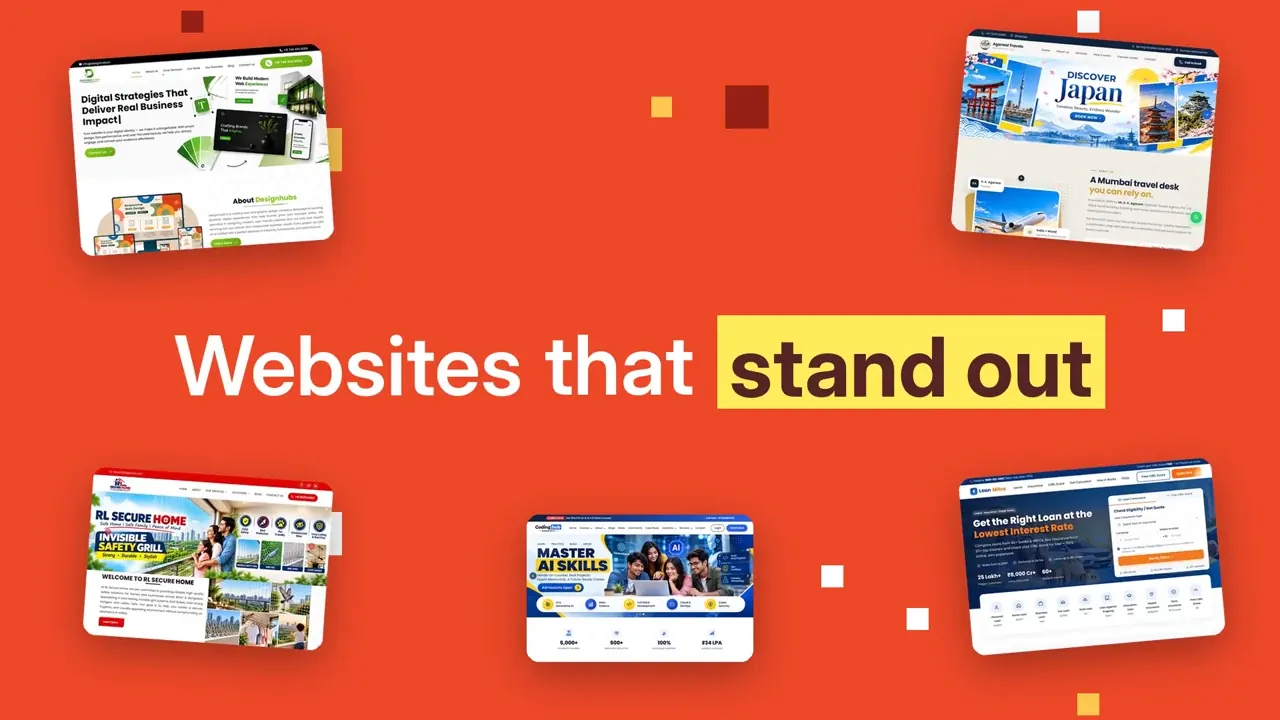
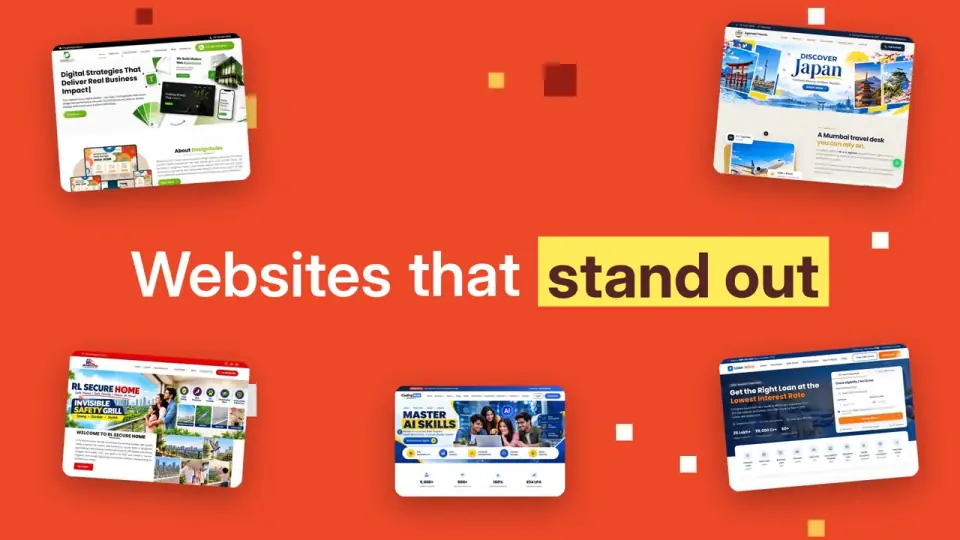
perf: cut rendering work, right-size images, longer static caching
- Replace blurred, endlessly drifting blobs with static radial-gradient
  glows; drop backdrop-filter on pills and hero tags; footer blob too
- Hero shimmer and hero tag floats run a few cycles instead of forever
- Pause decorative animations in off-screen sections (offscreen-pause.ts)
- content-visibility: auto for below-the-fold homepage sections and the
  footer, so start-up skips their style, layout and paint
- Showreel poster 1280px/87KB -> 960px/33KB; tools screenshot gets a 480w
  file and an accurate sizes hint
- nginx: fixed-name images, icons and videos cached 30 days with
  stale-while-revalidate, now including /img/

Local Lighthouse (mobile, home): main-thread 2.8s -> 1.8s, TBT 60 -> 10-100ms,
speed index 1.9-2.6s -> 1.4s. Desktop 99.

Changed region(s): [[0.4375, 0.7704, 0.4688, 0.8]]

diff --git a/frontend/src/pages/free-session/career-launch.css b/frontend/src/pages/free-session/career-launch.css
@@ -1,8 +1,8 @@
 /* "Join Coding Hub" career band: centered copy, floating benefit pills, students photo over an arc. */
 .cl{position:relative;isolation:isolate;overflow:hidden;padding:clamp(3rem,7vw,5rem) 0 0;background:radial-gradient(80% 70% at 50% 100%,#cfe0ff 0%,transparent 70%),linear-gradient(160deg,#eef5ff 0%,#dbe9ff 45%,#c8e6f5 100%)}
-.cl-glow{position:absolute;z-index:-1;border-radius:50%;filter:blur(70px);opacity:.45;pointer-events:none;animation:ui-drift 18s ease-in-out infinite alternate}
-.cl-glow-a{width:36rem;aspect-ratio:1;left:-14rem;top:-12rem;background:#7fb0ff}
-.cl-glow-b{width:30rem;aspect-ratio:1;right:-10rem;top:20%;background:#7ee3f5;animation-delay:-7s}
+.cl-glow{position:absolute;z-index:-1;border-radius:50%;pointer-events:none}
+.cl-glow-a{width:44rem;aspect-ratio:1;left:-18rem;top:-16rem;background:radial-gradient(closest-side,rgba(127,176,255,.55),transparent)}
+.cl-glow-b{width:38rem;aspect-ratio:1;right:-14rem;top:14%;background:radial-gradient(closest-side,rgba(126,227,245,.5),transparent)}
 .cl-wrap{position:relative;display:grid;grid-template-columns:minmax(0,1fr) minmax(0,1.6fr) minmax(0,1fr);align-items:start;gap:clamp(1rem,3vw,2rem)}
 .cl-copy{text-align:center}
 .cl-title{margin:0;color:var(--ui-ink,#0b1220);font-size:clamp(2rem,1.3rem + 2.6vw,3.25rem)!important;font-weight:800;line-height:1.12;letter-spacing:-.035em}
@@ -15,7 +15,7 @@
 .cl-pills{display:grid;gap:1rem;margin:0;padding:clamp(.5rem,2vw,1.5rem) 0 0;list-style:none}
 .cl-pills-l{justify-items:start}
 .cl-pills-r{justify-items:end}
-.cl-pill{display:inline-flex;align-items:center;gap:.625rem;padding:.75rem 1.125rem;border:1px solid #fff;border-radius:999px;background:rgba(255,255,255,.92);color:var(--ui-ink,#0b1220);font:600 .9375rem/1.3 var(--f-body,Poppins,sans-serif);box-shadow:0 14px 30px -18px rgba(11,18,32,.45);backdrop-filter:blur(8px);animation:cl-in .7s var(--ease,ease) both,cl-float 6s ease-in-out infinite;animation-delay:calc(var(--cl-i) * 140ms),calc(var(--cl-i) * 700ms + .7s)}
+.cl-pill{display:inline-flex;align-items:center;gap:.625rem;padding:.75rem 1.125rem;border:1px solid #fff;border-radius:999px;background:rgba(255,255,255,.97);color:var(--ui-ink,#0b1220);font:600 .9375rem/1.3 var(--f-body,Poppins,sans-serif);box-shadow:0 14px 30px -18px rgba(11,18,32,.45);animation:cl-in .7s var(--ease,ease) both,cl-float 6s ease-in-out infinite;animation-delay:calc(var(--cl-i) * 140ms),calc(var(--cl-i) * 700ms + .7s)}
 .cl-pills-l .cl-pill:nth-child(2){margin-left:-.5rem}
 .cl-pills-r .cl-pill:nth-child(2){margin-right:-.5rem}
 .cl-pill-r{animation-name:cl-in-r,cl-float}

diff --git a/frontend/src/components/innovative-toolkit.css b/frontend/src/components/innovative-toolkit.css
@@ -1,10 +1,10 @@
 /* Innovative AI Tools showcase (InnovativeToolkit.tsx). Light on the homepage, dark on /ai-tools. */
 .itk{--itk-ink:#0b1220;--itk-text:#363636;--itk-card:#fff;--itk-line:#e1e7f0;position:relative;isolation:isolate;overflow:hidden;padding:clamp(3rem,7vw,5rem) 0;background:linear-gradient(180deg,#f5f9ff 0%,#eaf2ff 100%)}
 .itk-dark{--itk-ink:#f4f7fb;--itk-text:#c9d5e8;--itk-card:#0f1d36;--itk-line:#22385c;background:linear-gradient(180deg,#081325 0%,#0b1a33 100%)}
-.itk-blob{position:absolute;z-index:-1;border-radius:50%;filter:blur(70px);opacity:.4;pointer-events:none;animation:ui-drift 18s ease-in-out infinite alternate}
-.itk-blob-a{width:34rem;aspect-ratio:1;left:-12rem;top:-10rem;background:#7fb0ff}
-.itk-blob-b{width:30rem;aspect-ratio:1;right:-10rem;bottom:-12rem;background:#7ee3f5;animation-delay:-7s}
-.itk-dark .itk-blob{opacity:.22}
+.itk-blob{position:absolute;z-index:-1;border-radius:50%;opacity:.7;pointer-events:none}
+.itk-blob-a{width:42rem;aspect-ratio:1;left:-16rem;top:-14rem;background:radial-gradient(closest-side,rgba(127,176,255,.6),transparent)}
+.itk-blob-b{width:38rem;aspect-ratio:1;right:-14rem;bottom:-16rem;background:radial-gradient(closest-side,rgba(126,227,245,.55),transparent)}
+.itk-dark .itk-blob{opacity:.35}
 .itk-layout{display:grid;grid-template-columns:minmax(0,1fr) minmax(0,1.05fr);align-items:center;gap:clamp(2rem,5vw,4.5rem)}
 .itk-copy{min-width:0}
 

diff --git a/frontend/src/components/ui/ui.css b/frontend/src/components/ui/ui.css
@@ -11,10 +11,11 @@
 .ui-tone-plain{background:transparent;padding-inline:0}
 .ui-tone-soft{overflow:hidden;background:linear-gradient(180deg,#f7faff 0%,var(--ui-primary-soft) 100%);border:1px solid var(--ui-line)}
 .ui-tone-dark{overflow:hidden;background:radial-gradient(70% 90% at 0% 0%,#123a8a 0%,transparent 60%),linear-gradient(120deg,#0b1424,#0b1f4a);color:#f4f7fb}
-.ui-blob{position:absolute;z-index:-1;border-radius:50%;filter:blur(60px);opacity:.35;pointer-events:none;animation:ui-drift 20s ease-in-out infinite alternate}
+/* Soft static glows: radial gradients instead of blurred, animated blobs (no per-frame repaint). */
+.ui-blob{position:absolute;z-index:-1;border-radius:50%;opacity:.5;pointer-events:none}
 .ui-tone-plain .ui-blob{display:none}
-.ui-blob-a{width:38%;aspect-ratio:1;left:-10%;top:-25%;background:#3d8bff}
-.ui-blob-b{width:30%;aspect-ratio:1;right:-8%;bottom:-25%;background:var(--ui-accent);opacity:.25;animation-delay:-8s}
+.ui-blob-a{width:46%;aspect-ratio:1;left:-14%;top:-30%;background:radial-gradient(closest-side,rgba(61,139,255,.55),transparent)}
+.ui-blob-b{width:38%;aspect-ratio:1;right:-12%;bottom:-30%;background:radial-gradient(closest-side,rgba(34,211,238,.4),transparent)}
 @keyframes ui-drift{to{transform:translate(8%,10%) scale(1.12)}}
 
 .ui-head{display:flex;flex-direction:column;gap:1rem;margin:0 0 clamp(1.5rem,3vw,2.25rem)}

diff --git a/frontend/src/lib/offscreen-pause.ts b/frontend/src/lib/offscreen-pause.ts
@@ -1,0 +1,25 @@
+/**
+ * Pause decorative CSS animations in sections that are off screen.
+ *
+ * Floating pills, the scrolling laptop, logo marquees and similar loops otherwise keep the browser restyling and
+ * repainting the whole page every frame, even far below the fold. Each `section` / `footer` gets a `data-offscreen`
+ * attribute while it is out of view, and styles/ui-skin.css pauses every animation inside it. Sections added later
+ * (route changes, lazy pages) are picked up by a MutationObserver.
+ */
+const SELECTOR = 'section, footer, .ch-band'
+
+export function pauseOffscreenAnimations() {
+  if (typeof window === 'undefined' || !('IntersectionObserver' in window)) return
+  const io = new IntersectionObserver(
+    (entries) => { for (const e of entries) e.target.toggleAttribute('data-offscreen', !e.isIntersecting) },
+    { rootMargin: '150px 0px' },
+  )
+  const watch = (root: Element | Document) => {
+    if (root instanceof Element && root.matches(SELECTOR)) io.observe(root)
+    root.querySelectorAll(SELECTOR).forEach((el) => io.observe(el))
+  }
+  watch(document)
+  new MutationObserver((mutations) => {
+    for (const m of mutations) m.addedNodes.forEach((n) => { if (n instanceof Element) watch(n) })
+  }).observe(document.body, { childList: true, subtree: true })
+}

diff --git a/frontend/src/styles/ui-skin.css b/frontend/src/styles/ui-skin.css
@@ -51,3 +51,15 @@ html body .ch-home .ui-card.ui-card:active{transform:translateY(-8px) scale(.97)
   html body .btn.btn-yellow:hover,html body .btn.btn-ghost:hover,html body .course-section-nav a:hover,html body .course-brochure:hover{transform:none}
   html body :is(.bl-hero-in,.pj-hero-in,.pj-dhero-in,.lx-hero-in,.tutors-hero-inner)>*,html body :is(.ow-hero,.learn-hero,.at-head)>*{animation:none}
 }
+
+/* Off-screen sections (src/lib/offscreen-pause.ts) pause their decorative animations. */
+[data-offscreen],[data-offscreen] *,[data-offscreen] ::before,[data-offscreen] ::after{animation-play-state:paused!important}
+
+/* Below-the-fold homepage sections and the footer: the browser skips their style, layout and paint until they are
+   about to scroll into view (big win for start-up main-thread work). `auto` remembers each section's real size once
+   it has rendered, so scrolling back up does not jump. */
+html body .ch-home main > :is(section, nav):nth-child(n+3),
+html body #site-footer, html body .ch-band {
+  content-visibility: auto;
+  contain-intrinsic-size: auto 900px;
+}

diff --git a/frontend/src/pages/free-session/contact-hub.css b/frontend/src/pages/free-session/contact-hub.css
@@ -73,7 +73,7 @@
 
 /* About section image: floating students photo over a gradient blob. */
 .about-students{position:relative;isolation:isolate;align-self:center;margin:0}
-.about-blob{position:absolute;z-index:-1;inset:12% 6% 0;border-radius:46% 54% 42% 58%/55% 45% 55% 45%;background:var(--ui-gradient);opacity:.22;filter:blur(2px);animation:about-morph 12s ease-in-out infinite alternate}
+.about-blob{position:absolute;z-index:-1;inset:12% 6% 0;border-radius:46% 54% 42% 58%/55% 45% 55% 45%;background:var(--ui-gradient);opacity:.22;animation:about-morph 12s ease-in-out infinite alternate}
 .about-students img{display:block;width:100%;height:auto;filter:drop-shadow(0 22px 30px rgba(11,18,32,.18));animation:cl-float 7s ease-in-out infinite}
 @keyframes about-morph{to{border-radius:58% 42% 55% 45%/45% 55% 45% 55%;transform:rotate(4deg) scale(1.04)}}
 @media (prefers-reduced-motion:reduce){.about-blob,.about-students img{animation:none}}

diff --git a/frontend/src/components/InnovativeToolkit.tsx b/frontend/src/components/InnovativeToolkit.tsx
@@ -102,8 +102,8 @@ export function InnovativeToolkit({ id = 'online-tools', tone = 'light', limit =
               </div>
               <div className="itk-view">
                 <img className="itk-shot" src="/assets/innovative-tools/tools-site-960.webp"
-                  srcSet="/assets/innovative-tools/tools-site-640.webp 640w, /assets/innovative-tools/tools-site-960.webp 960w"
-                  sizes="(max-width: 900px) 90vw, 560px" alt="" width={960} height={1950} loading="lazy" decoding="async" />
+                  srcSet="/assets/innovative-tools/tools-site-480.webp 480w, /assets/innovative-tools/tools-site-640.webp 640w, /assets/innovative-tools/tools-site-960.webp 960w"
+                  sizes="(max-width: 640px) calc(100vw - 52px), (max-width: 900px) 560px, 540px" alt="" width={960} height={1950} loading="lazy" decoding="async" />
               </div>
             </div>
             <div className="itk-base" />

diff --git a/frontend/src/styles/footer-skin.css b/frontend/src/styles/footer-skin.css
@@ -22,7 +22,7 @@ html body .ch-band .ch-band-alt a:hover{color:var(--ft-gold)!important}
 
 /* ---------- footer shell ---------- */
 html body #site-footer{position:relative;isolation:isolate;margin-top:0!important;border-top:0!important;background:linear-gradient(180deg,rgba(6,42,90,.98) 0%,rgba(8,54,110,.96) 50%,rgba(4,30,66,.99) 100%),var(--ft-navy)!important;color:var(--ft-text)!important}
-html body #site-footer .fx-blob{opacity:.18!important}
+html body #site-footer .fx-blob{width:640px!important;height:640px!important;filter:none!important;opacity:.35!important;background:radial-gradient(closest-side,rgba(31,107,255,.6),transparent)!important}
 html body #site-footer :is(p,li,span,small,address){color:var(--ft-text)!important}
 html body #site-footer strong{color:#fff!important}
 

diff --git a/frontend/src/pages/free-session/home.css b/frontend/src/pages/free-session/home.css
@@ -232,14 +232,14 @@
   padding: 0.45rem 0.95rem;
   border: 1px solid var(--ch-line-2);
   border-radius: 999px;
-  background: rgba(255, 255, 255, 0.92);
-  backdrop-filter: blur(8px);
+  background: rgba(255, 255, 255, 0.97);
   box-shadow: 0 8px 20px -14px rgba(11, 18, 32, 0.4);
   color: var(--ch-ink);
   font: 500 var(--fs-caption)/1.2 var(--f-body);
   white-space: nowrap;
   pointer-events: none;
-  animation: hs-float 6s ease-in-out infinite;
+  /* A few gentle floats, then rest: endless motion in the first screen keeps the page "loading" for speed index. */
+  animation: hs-float 6s ease-in-out 3;
 }
 .hs-tag-1 { left: calc(50% - var(--card-w) / 2 + 18px); top: -16px; }
 .hs-tag-2 { left: calc(50% + var(--card-w) / 2 - 70px); top: 12%; animation-delay: -1.5s; }

diff --git a/frontend/src/main.tsx b/frontend/src/main.tsx
@@ -1,5 +1,6 @@
 import { StrictMode } from 'react'
 import { createRoot, hydrateRoot } from 'react-dom/client'
+import { pauseOffscreenAnimations } from './lib/offscreen-pause'
 import { App } from './App'
 import { loadContent } from './locations/content-loader'
 // Self-hosted fonts first (index CSS, so every page has them, including the prerendered ones before JS runs).
@@ -63,6 +64,7 @@ async function start() {
   )
   if (path === '/' && root.hasChildNodes()) hydrateRoot(root, app)
   else createRoot(root).render(app)
+  pauseOffscreenAnimations()
 }
 
 void start()

diff --git a/frontend/src/styles/global.css b/frontend/src/styles/global.css
@@ -611,9 +611,8 @@ header.site .nav-link{white-space:nowrap;padding-inline:.7rem}
   background-clip: text;
   -webkit-background-clip: text;
   color: transparent;
-  animation:
-    text-gradient 5s linear infinite,
-    text-float 3s ease-in-out infinite;
+  /* Two shimmer cycles, then rest: an endless background-position animation repaints the hero every frame. */
+  animation: text-gradient 5s linear 2;
 }
 
 @keyframes text-gradient {
